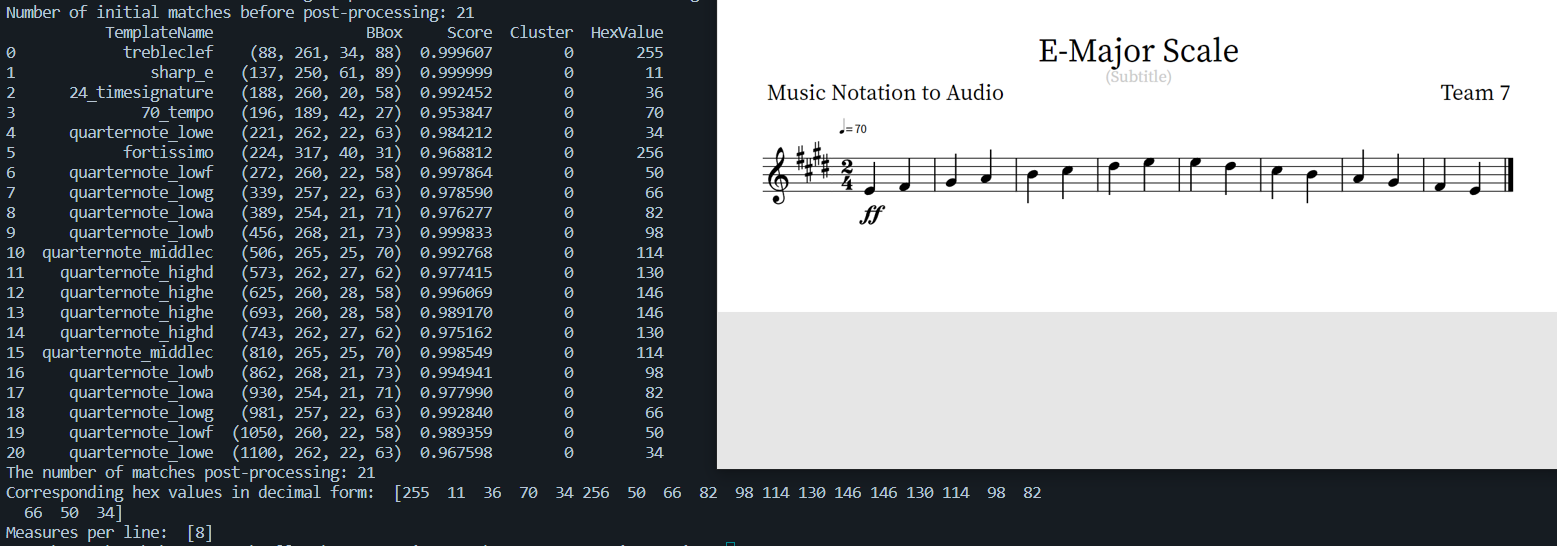
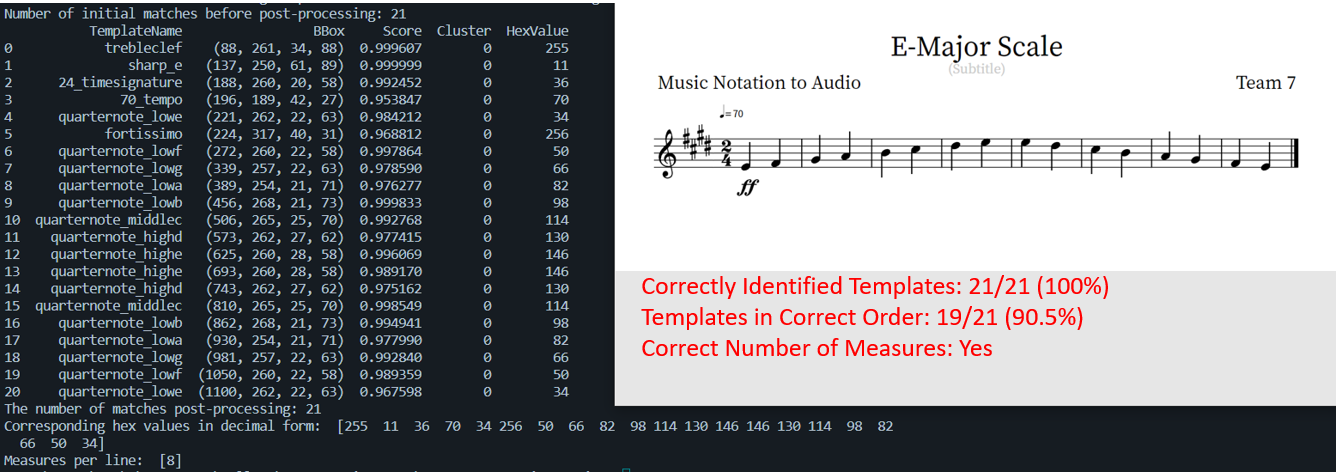
23 - Updated templates

diff --git a/test.py b/test.py
@@ -284,7 +284,7 @@ for filename in os.listdir(templateDirectory):
     template_img = cv.imread(os.path.join(templateDirectory, filename))
     template_img = cv.cvtColor(template_img, cv.COLOR_BGR2GRAY)
     listTemplate.append((filename.split('.')[0], template_img))
-sheet = "sheets/4-A_Major Scale Sheet.png"
+sheet = "sheets/Sample Sheet 2.png"
 sheet_img = cv.imread(sheet)
 sheet_img = cv.cvtColor(sheet_img, cv.COLOR_BGR2GRAY)
 
@@ -426,6 +426,8 @@ for i, cluster in enumerate(clusters):
 int_values = sorted_hits['HexValue'].dropna().values
 int_array = np.array(int_values, dtype=int)
 
+# Drop the x and y column for better readability
+sorted_hits = sorted_hits.drop(columns=['x', 'y'])
 
 # Writing dataframe to a file because 
 # terminal does not display all of the data
@@ -436,9 +438,6 @@ path = r'outputs/output_data.txt'
 with open(path, 'w') as f:
     df_string = sorted_hits.to_string(header=True, index=True)
     f.write(df_string)
-
-# Drop the x and y column for better readability
-sorted_hits = sorted_hits.drop(columns=['x', 'y'])
 
 print(sorted_hits)
 print("The number of matches post-processing:", len(sorted_hits))
